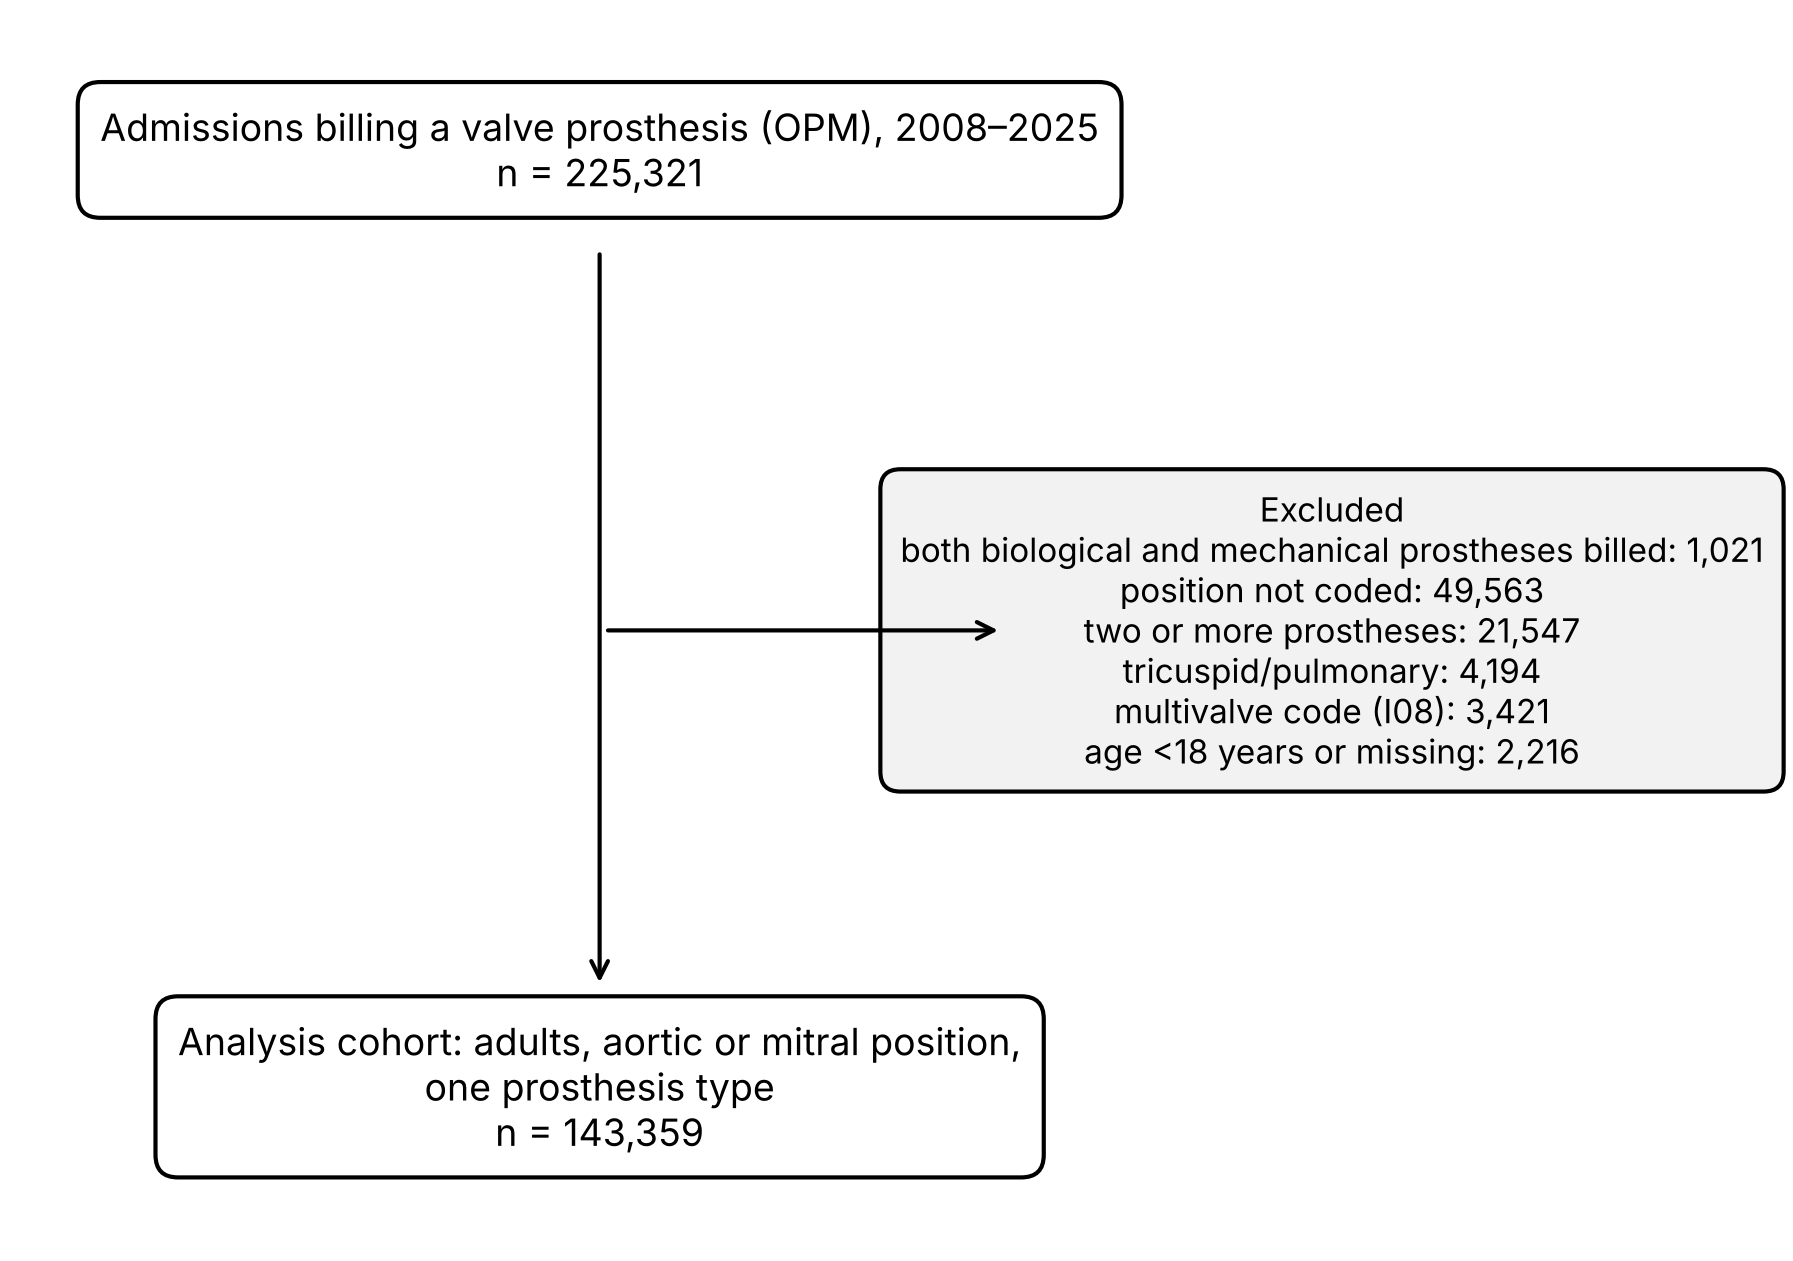
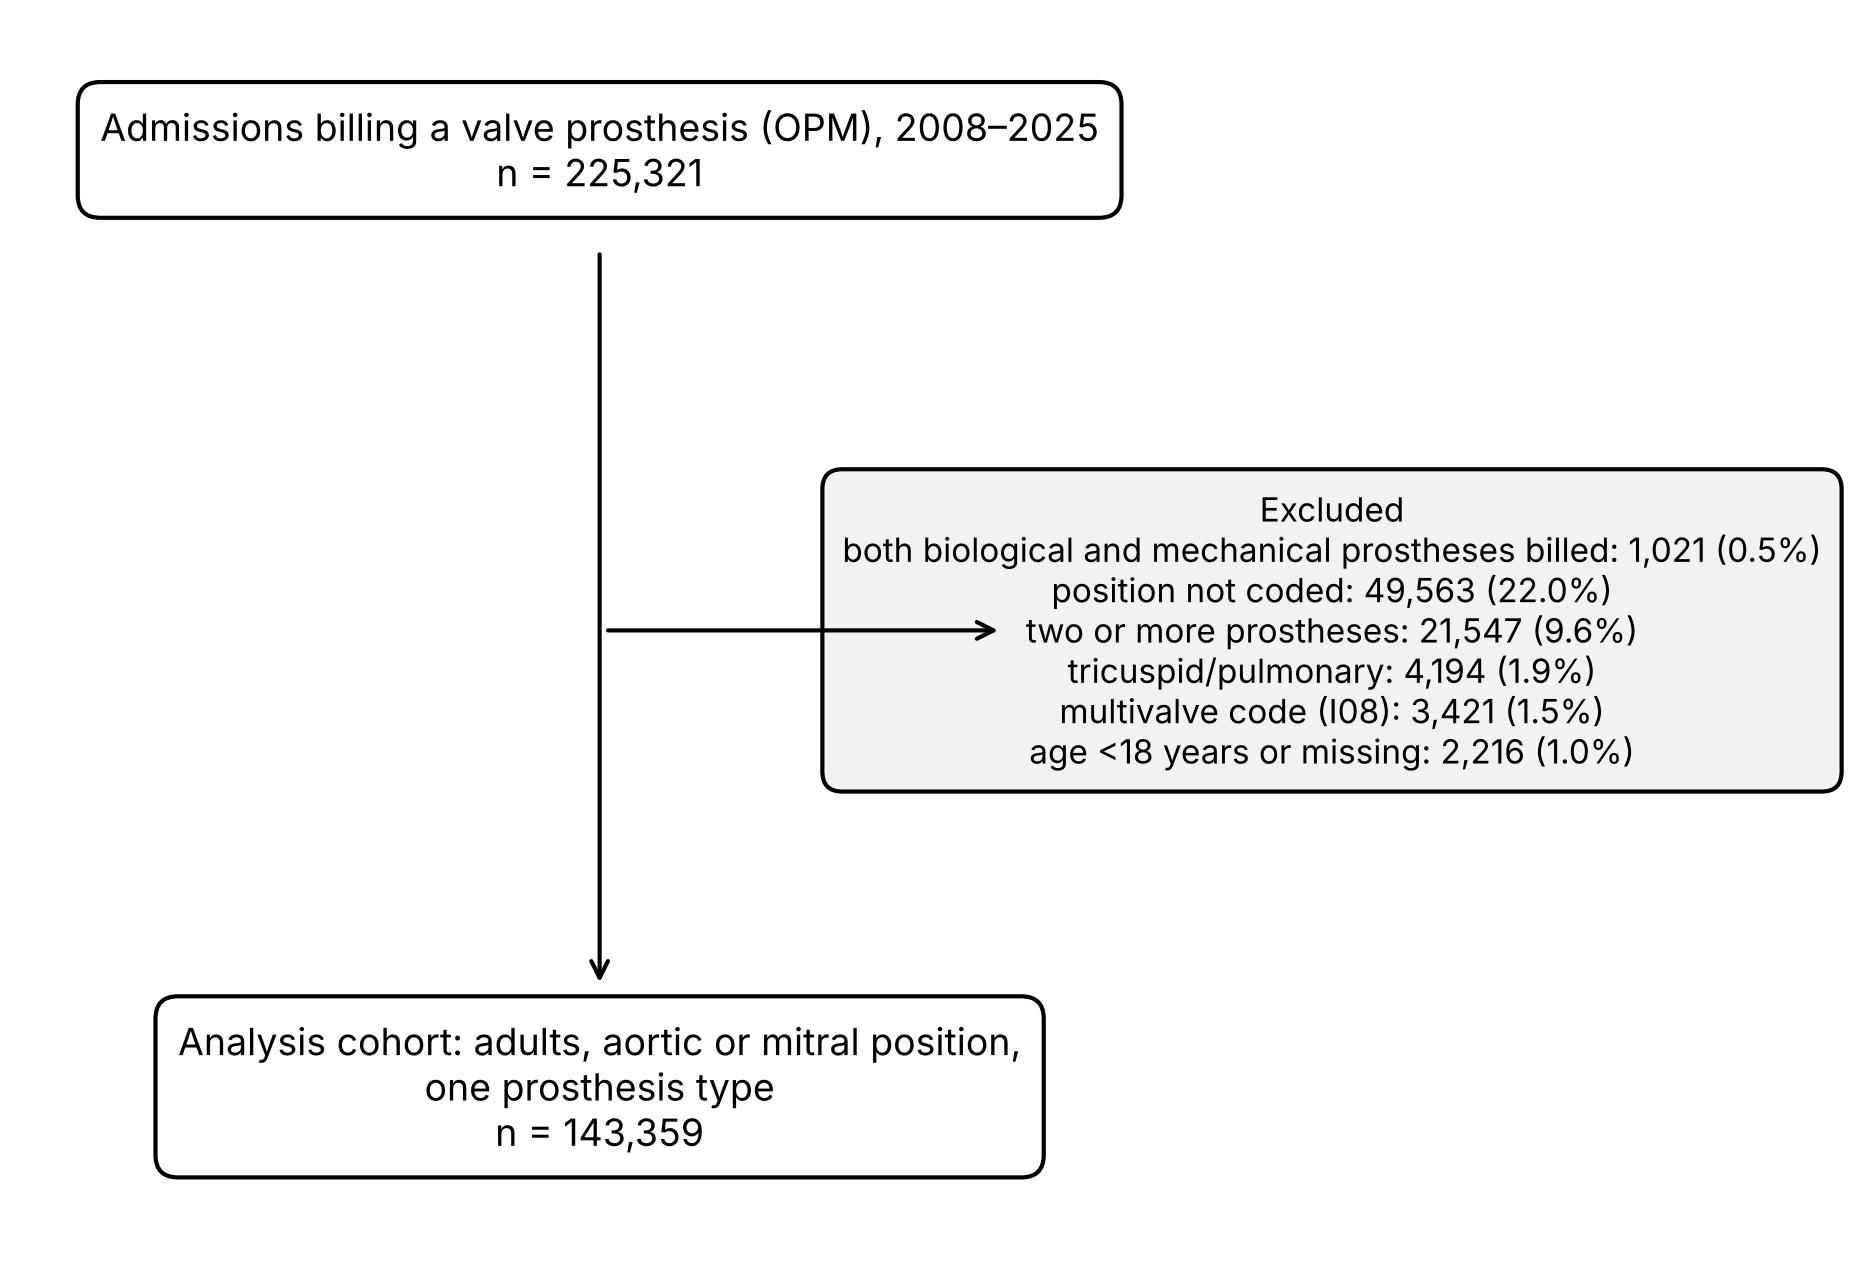
Flowchart script; table and figure updates
Claude-Session: https://claude.ai/code/session_01R28sPMEy8T3kAW38xZmcoA

diff --git a/protese_valvar/montar_manuscrito.py b/protese_valvar/montar_manuscrito.py
@@ -51,10 +51,22 @@ note2 = (f"Mixed-effects logistic model with a random intercept for hospital; {i
 t3 = pd.read_csv("Table3_2020_shift_robustness.csv", dtype=str).fillna("")
 t3["P"] = t3.P.replace({"0.000": "<0.001"})
 t3 = t3.drop(columns="Estimate").rename(columns={"Value (95% CI)": "OR (95% CI)"})
+t3 = t3[~t3.Analysis.str.startswith(("Excluding", "All four"))]
+RT = {"Interrupted time series, level change at 2020-03": "Interrupted time series, break at March 2020 (main)",
+      "Interrupted time series, level change at 2020-05": "Interrupted time series, break at May 2020 (minimum deviance)",
+      "Interrupted time series, level change at 2014-05 (placebo, pre-2020 series)": "Placebo break, May 2014",
+      "Interrupted time series, level change at 2016-05 (placebo, pre-2020 series)": "Placebo break, May 2016",
+      "Interrupted time series, level change at 2018-05 (placebo, pre-2020 series)": "Placebo break, May 2018",
+      "Main model (2022–2025 vs 2018–2019)": "Adjusted logistic model, 2022–2025 vs 2018–2019"}
+t3["ord"] = t3.Analysis.map({k: i for i, k in enumerate(["Interrupted time series, level change at 2020-03",
+                                                          "Interrupted time series, level change at 2020-05"])}).fillna(9)
+t3 = t3.sort_values("ord", kind="stable").drop(columns="ord")
+t3["Analysis"] = t3.Analysis.replace(RT)
 note3 = ("Patients aged 18–59 years, aortic and mitral position. Interrupted time series: segmented binomial model of "
          "monthly proportions with calendar-month terms and HAC standard errors; placebo breaks fitted on the "
          "pre-2020 series. Other rows: logistic models comparing 2022–2025 with 2018–2019, adjusted for valve "
-         "position, aetiology, sex, age, admission type and region. CI, confidence interval; OR, odds ratio.")
+         "position, aetiology, sex, age, admission type and region. Further sensitivity analyses are shown in Table S3. "
+         "CI, confidence interval; OR, odds ratio.")
 
 md = open("manuscrito_EJCTS_v1.md").read()
 md = md.replace("Table 1. Characteristics of the analysis cohort by prosthesis type, 2008–2025 (Table1_baseline.csv).",
@@ -62,7 +74,7 @@ md = md.replace("Table 1. Characteristics of the analysis cohort by prosthesis t
                 + "\n\nValues are n (%) unless stated otherwise. IQR, interquartile range.\n")
 md = md.replace("Table 2. Determinants of mechanical-prosthesis use: mixed-effects logistic model (Table2_multilevel.csv).",
                 "**Table 2.** Determinants of mechanical-prosthesis use in adults, 2008–2025.\n\n" + tab(m2) + "\n\n" + note2 + "\n")
-md = re.sub(r"Table 3\. Change in mechanical-prosthesis use after 2020 in patients aged 18–59 years: main and sensitivity analyses\n\(Table3_2020_shift_robustness\.csv\)\.",
+md = re.sub(r"Table 3\. Change in mechanical-prosthesis use after 2020 in patients aged 18–59 years: main and sensitivity analyses\s+\(Table3_2020_shift_robustness\.csv\)\.",
             lambda _: "**Table 3.** Change in mechanical-prosthesis use after 2020: main and sensitivity analyses.\n\n"
             + tab(t3) + "\n\n" + note3 + "\n", md)
 figs = "\n\n# FIGURES\n\n" + "\n\n".join(

diff --git a/protese_valvar/manuscrito_tabelas.py b/protese_valvar/manuscrito_tabelas.py
@@ -150,10 +150,10 @@ def pct(g):
 
 fig, ax = plt.subplots(1, 2, figsize=(10, 3.8), sharey=True)
 for i, (v, vn) in enumerate((("aórtica", "Aortic"), ("mitral", "Mitral"))):
-    for (lo, hi, lab, cor) in ((18, 60, "18–59 years", AZ), (60, 200, "≥60 years", LA)):
+    for (lo, hi, lab, cor, ls, mk) in ((18, 60, "18–59 years", AZ, "-", "o"), (60, 200, "≥60 years", LA, "--", "s")):
         g = u[(u.valva == v) & (u.idade >= lo) & (u.idade < hi) & (u.ano >= 2002)]
         sr = g.groupby("ano").apply(pct, include_groups=False)
-        ax[i].plot(sr.index, sr.values, marker="o", ms=3, color=cor, label=lab)
+        ax[i].plot(sr.index, sr.values, marker=mk, ms=3, color=cor, ls=ls, label=lab)
     ax[i].axvline(2007.5, color="grey", ls=":", lw=1)
     ax[i].axvline(2020, color="grey", ls="--", lw=1)
     ax[i].set_title(f"{vn} position")
@@ -272,21 +272,4 @@ s8 = g.groupby("grupo").agg(n=("mec", "size"), age_median=("idade", "median"),
                             northeast_pct=("regiao", lambda x: round(100 * (x == "Northeast").mean(), 1)))
 s8.to_csv(f"{M}/S8_included_vs_excluded.csv")
 print(s8.to_string())
-fl = pd.read_csv(f"{M}/Flowchart_counts.csv")
-fig, ax = plt.subplots(figsize=(7, 5.2))
-ax.axis("off")
-EN = {"indeterminada": "position not coded", "dupla/múltipla": "two or more prostheses", "tric/pulm": "tricuspid/pulmonary",
-      "múltipla": "multivalve code (I08)"}
-top = f"Admissions billing a valve prosthesis (OPM), 2008–2025\nn = {fl.n.iloc[0]:,}"
-exc = "\n".join(f"{(r.step.replace('Excluded: ', '').replace('valve position ', '') if 'valve position' not in r.step else EN.get(r.step.split('valve position ')[1], r.step))}: {r.n:,}"
-                for r in fl.iloc[1:-1].itertuples())
-bot = f"Analysis cohort: adults, aortic or mitral position,\none prosthesis type\nn = {fl.n.iloc[-1]:,}"
-kw = dict(ha="center", va="center", fontsize=9, bbox=dict(boxstyle="round,pad=0.6", fc="white", ec="black"))
-ax.text(0.35, 0.9, top, **kw)
-ax.text(0.35, 0.12, bot, **kw)
-ax.text(0.8, 0.5, "Excluded\n" + exc, ha="center", va="center", fontsize=8,
-        bbox=dict(boxstyle="round,pad=0.6", fc="#f2f2f2", ec="black"))
-ax.annotate("", xy=(0.35, 0.2), xytext=(0.35, 0.82), arrowprops=dict(arrowstyle="->"))
-ax.annotate("", xy=(0.6, 0.5), xytext=(0.35, 0.5), arrowprops=dict(arrowstyle="->"))
-fig.savefig(f"{M}/Figure1_flowchart.png", dpi=300, bbox_inches="tight")
-plt.close(fig)
+# fluxograma: figura_fluxograma.py

diff --git a/protese_valvar/figura_fluxograma.py b/protese_valvar/figura_fluxograma.py
@@ -1,0 +1,27 @@
+#!/usr/bin/env python3
+"""Figure 1 (flowchart) from manuscrito/Flowchart_counts.csv (written by manuscrito_tabelas.py)."""
+import matplotlib
+matplotlib.use("Agg")
+import matplotlib.pyplot as plt
+import pandas as pd
+
+M = "protese_valvar/manuscrito"
+fl = pd.read_csv(f"{M}/Flowchart_counts.csv")
+fig, ax = plt.subplots(figsize=(7, 5.2))
+ax.axis("off")
+EN = {"indeterminada": "position not coded", "dupla/múltipla": "two or more prostheses", "tric/pulm": "tricuspid/pulmonary",
+      "múltipla": "multivalve code (I08)"}
+top = f"Admissions billing a valve prosthesis (OPM), 2008–2025\nn = {fl.n.iloc[0]:,}"
+tot = fl.n.iloc[0]
+exc = "\n".join(f"{(r.step.replace('Excluded: ', '') if 'valve position' not in r.step else EN.get(r.step.split('valve position ')[1], r.step))}: {r.n:,} ({100 * r.n / tot:.1f}%)"
+                for r in fl.iloc[1:-1].itertuples())
+bot = f"Analysis cohort: adults, aortic or mitral position,\none prosthesis type\nn = {fl.n.iloc[-1]:,}"
+kw = dict(ha="center", va="center", fontsize=9, bbox=dict(boxstyle="round,pad=0.6", fc="white", ec="black"))
+ax.text(0.35, 0.9, top, **kw)
+ax.text(0.35, 0.12, bot, **kw)
+ax.text(0.8, 0.5, "Excluded\n" + exc, ha="center", va="center", fontsize=8,
+        bbox=dict(boxstyle="round,pad=0.6", fc="#f2f2f2", ec="black"))
+ax.annotate("", xy=(0.35, 0.2), xytext=(0.35, 0.82), arrowprops=dict(arrowstyle="->"))
+ax.annotate("", xy=(0.6, 0.5), xytext=(0.35, 0.5), arrowprops=dict(arrowstyle="->"))
+fig.savefig(f"{M}/Figure1_flowchart.png", dpi=300, bbox_inches="tight")
+plt.close(fig)
